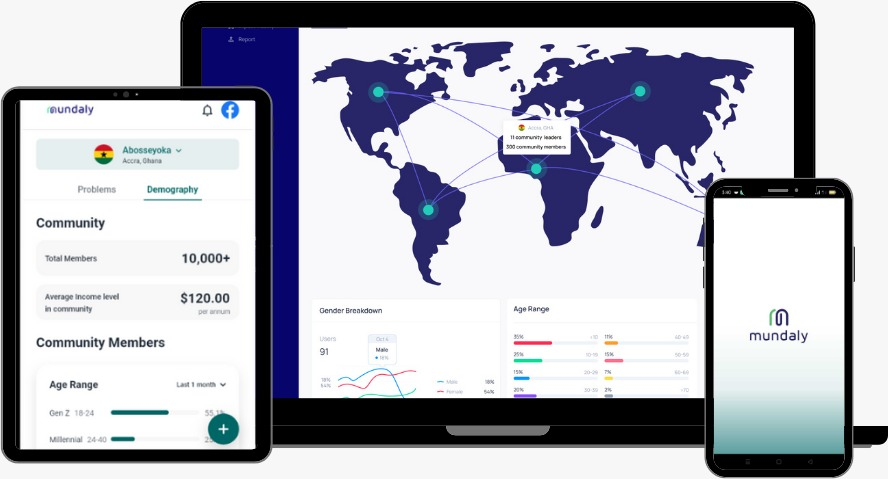
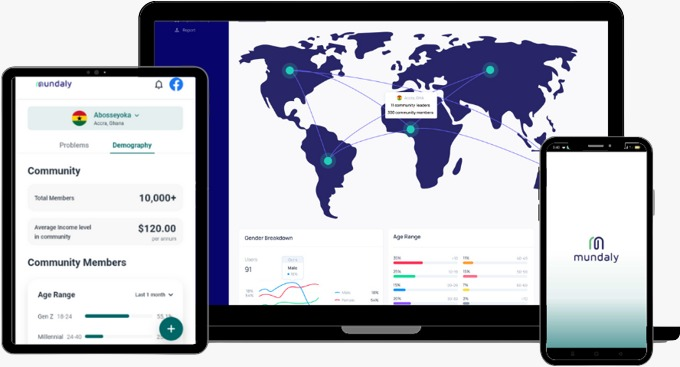
update mock up

diff --git a/src/app/public/public-business/public-business-home/public-business-home.component.html b/src/app/public/public-business/public-business-home/public-business-home.component.html
@@ -177,17 +177,11 @@
             </ul>
             <!-- Mockup -->
             <img
-            src="assets/images/app/mockup.jpeg"
+            width="75%"
+            src="assets/images/app/mockup-removebg-preview.png"
             alt="MockUp"
           />
 
-            <div
-              class="relative mx-auto bg-gray-900 dark:bg-gray-700 rounded-b-xl rounded-t-sm h-[17px] max-w-[351px] md:h-[21px] md:max-w-[597px]"
-            >
-              <div
-                class="absolute left-1/2 top-0 -translate-x-1/2 rounded-b-xl w-[56px] h-[5px] md:w-[96px] md:h-[8px] bg-gray-800"
-              ></div>
-            </div>
 
             <!-- <h3 class="font-bold text-xl text-slate-600 ">
               Here is how:</h3> -->
